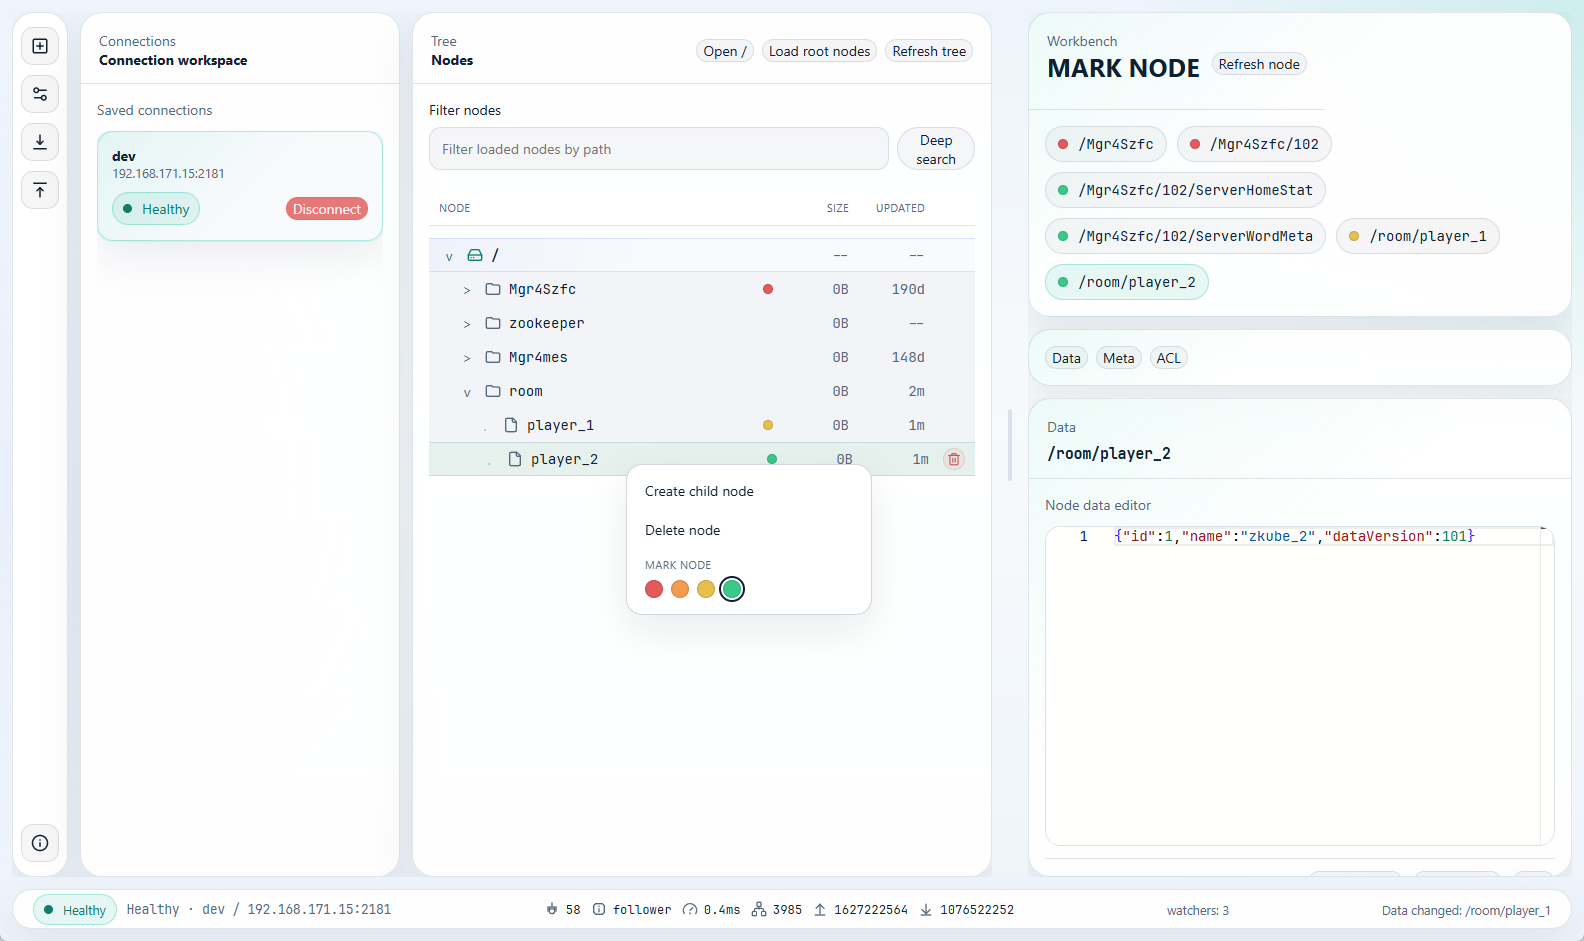
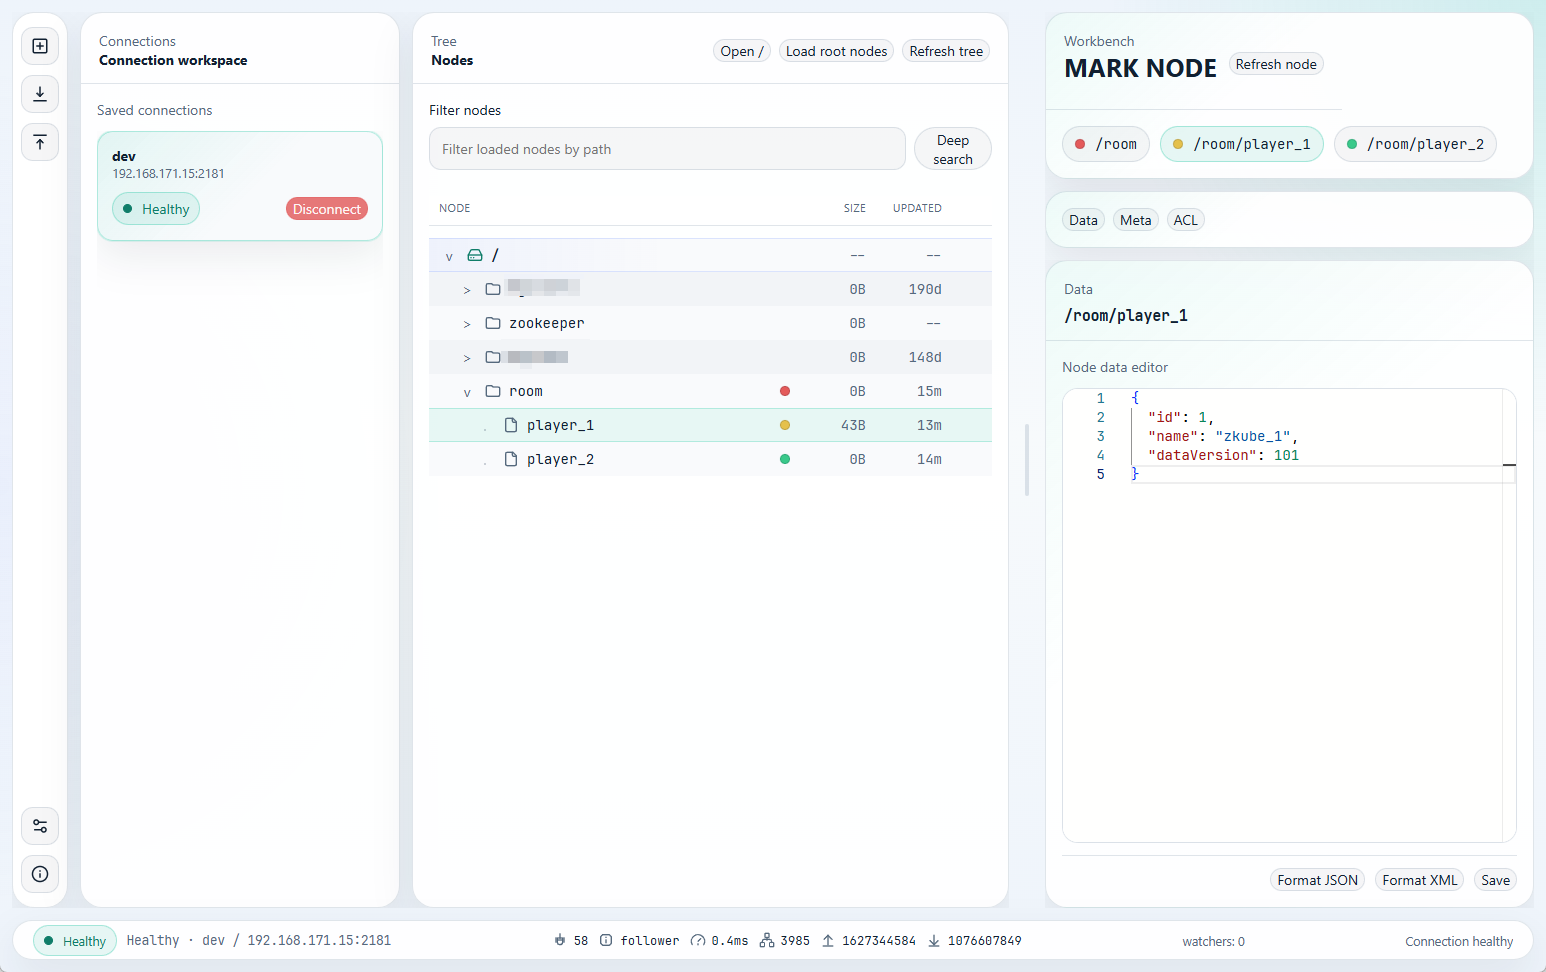
feat: move settings action above about in tool rail

diff --git a/src/renderer/features/layout/NavigationToolRail.tsx b/src/renderer/features/layout/NavigationToolRail.tsx
@@ -246,14 +246,6 @@ export function NavigationToolRail() {
             <AddIcon />
           </RailButton>
           <RailButton
-            label={t('tool.openSettings')}
-            onClick={() => {
-              void window.zkube?.preferences?.openSettingsWindow()
-            }}
-          >
-            <SettingsIcon />
-          </RailButton>
-          <RailButton
             label={t('tool.importConnections')}
             onClick={() => {
               void importFromFile()
@@ -272,6 +264,14 @@ export function NavigationToolRail() {
         </div>
 
         <div className="tool-rail__group tool-rail__group--bottom">
+          <RailButton
+            label={t('tool.openSettings')}
+            onClick={() => {
+              void window.zkube?.preferences?.openSettingsWindow()
+            }}
+          >
+            <SettingsIcon />
+          </RailButton>
           <RailButton
             label={t('tool.about')}
             onClick={() => {

diff --git a/tests/renderer/navigation-layout.test.tsx b/tests/renderer/navigation-layout.test.tsx
@@ -116,6 +116,12 @@ describe('navigation workspace layout', () => {
     expect(
       within(toolRail).getByRole('button', { name: /about zkube/i }),
     ).toBeInTheDocument()
+    const bottomGroup = toolRail.querySelector('.tool-rail__group--bottom')
+    expect(bottomGroup).not.toBeNull()
+    const bottomButtons = within(bottomGroup as HTMLElement).getAllByRole('button')
+    expect(bottomButtons).toHaveLength(2)
+    expect(bottomButtons[0]).toHaveAttribute('aria-label', 'open settings')
+    expect(bottomButtons[1]).toHaveAttribute('aria-label', 'about zkube')
     expect(
       within(navigationWorkspace).getByLabelText('Connections sidebar'),
     ).toBeInTheDocument()